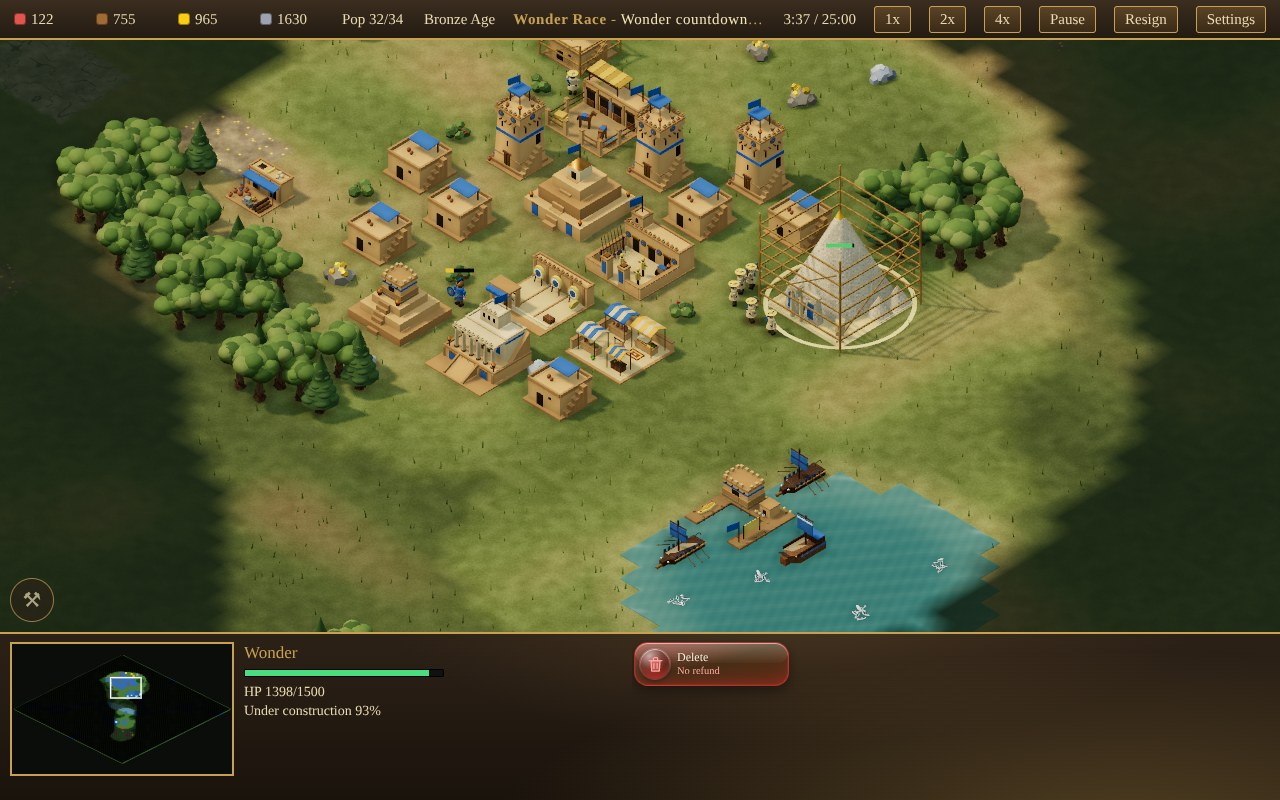
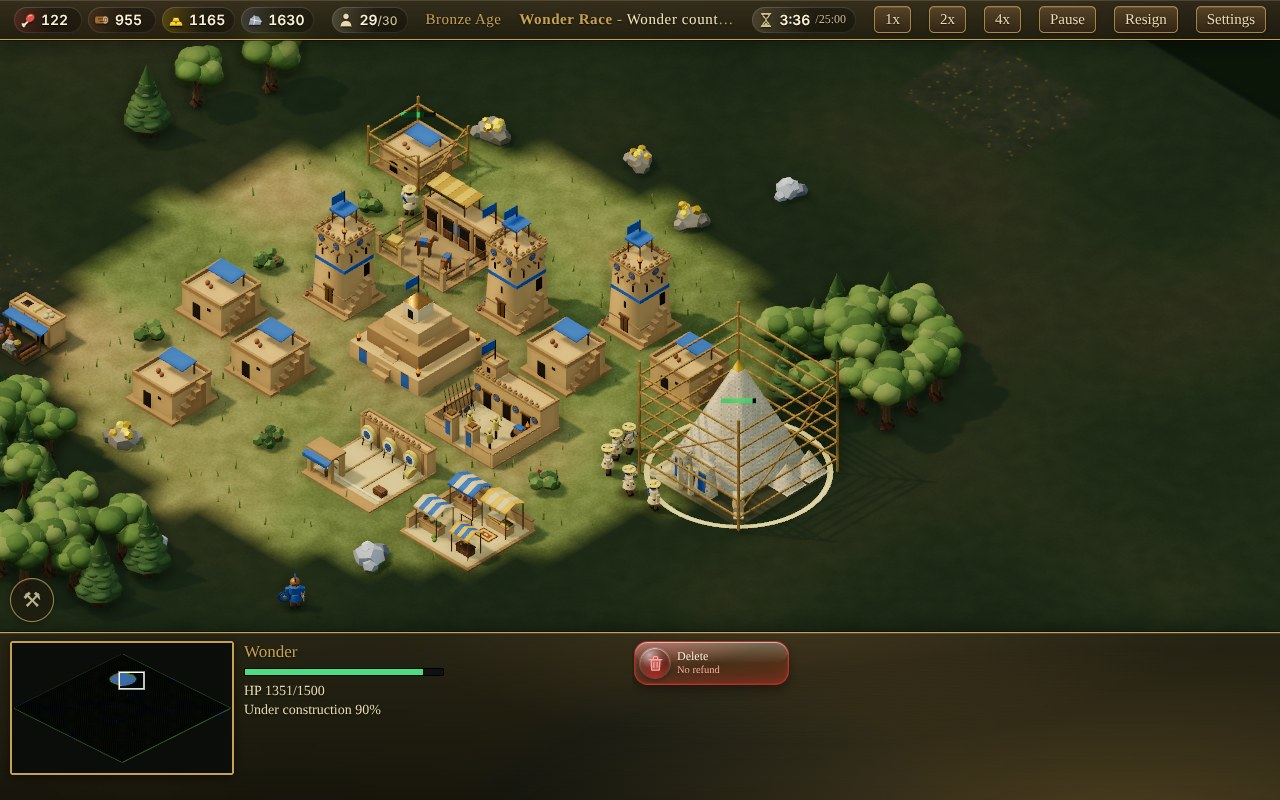
Retake the Wonder Race and Death Match README screenshots
These two in-game shots still showed the old opaque top bar with coloured
dots. Retaken on the current build at the same moments: Wonder Race at
about 3:36 with the Wonder 90% built and selected, Death Match in the
Industrial Age at about 6:54. Both now show the resource chips and the
glass HUD.

In Wonder Race the bot no longer builds a Dock before its Wonder (none on
seeds 1 to 8), and the Death Match Dock sits in fog. The captions now
describe what the images show and no longer mention ships.

Claude-Session: https://claude.ai/code/session_01MdCpivb6jwmt4cSqzX9Lcn

diff --git a/README.md b/README.md
@@ -8,7 +8,7 @@ Or play **Kingdom Conquest**, a standalone round against three AI civilizations:
 
 **Play it in the browser: https://ggrocco.github.io/age_of_knockout/**
 
-![A Bronze Age base in Wonder Race: mud-brick houses, towers, a Temple and a Wonder under construction, with a Dock, War Galleys and a Transport Ship in the home bay](docs/screenshots/wonder.jpg)
+![A Bronze Age base in Wonder Race: mud-brick houses, towers, a market and a Wonder 90% built under scaffolding, with the resource chips in the top bar](docs/screenshots/wonder.jpg)
 
 ## Run
 
@@ -145,7 +145,7 @@ Farms grow with the eras too: a Farm holds 400 food in the Stone Age, then 500, 
 1800 in AI Future, and villagers work it faster (normal speed in Stone, up to 2.4x in AI Future). When you advance,
 every Farm you already have grows to the new size and keeps its share of food left.
 
-![Industrial Age Death Match base: brick houses with chimneys, a factory, a railway station and red-brick towers, with Frigates, a War Galley and Fishing Ships at the Dock](docs/screenshots/deathmatch.jpg)
+![Industrial Age Death Match base: brick houses with chimneys, a factory, a railway station and red-brick towers, with five-digit stockpiles in the top bar](docs/screenshots/deathmatch.jpg)
 
 **Towers and walls** get stronger when you advance: every existing tower and wall section re-scales to your current
 era, and the tower's weapon changes with it (arrows, cannon, machine guns, beams). Draw a wall by dragging its line (on touch: tap
